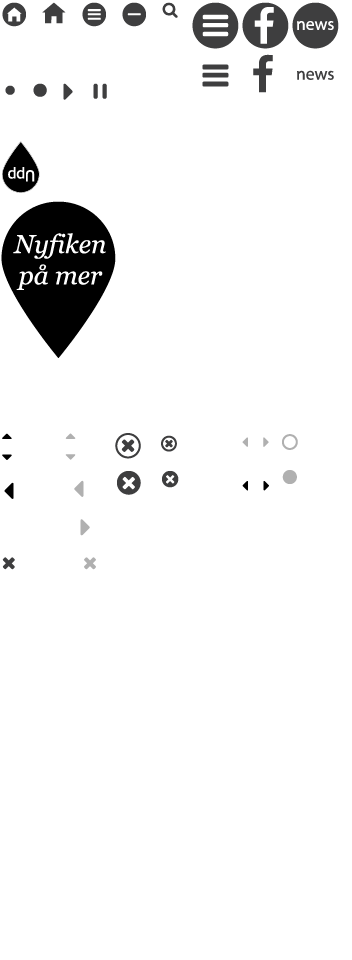
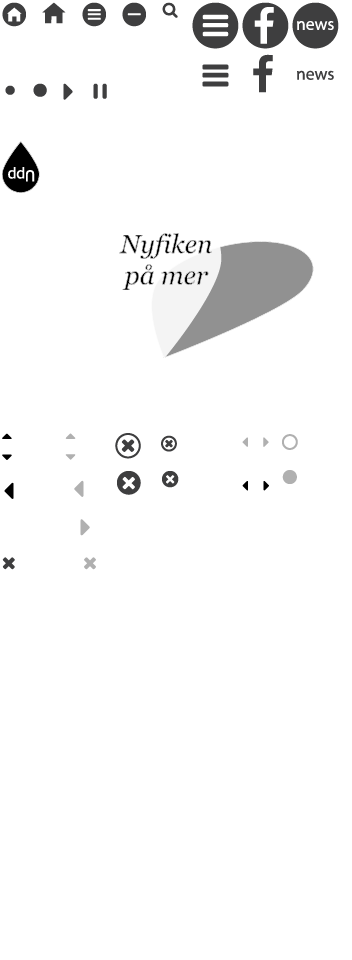
style fixes, firstpage teaser changed

Changed region(s): [[0.0, 0.1875, 0.9062, 0.375]]

diff --git a/css/style.css b/css/style.css
@@ -1016,7 +1016,7 @@ h1, .alpha, h1,
   line-height: 1.33333;
 }
 
-h2, .beta {
+h2, .beta, .main-menu-wrapper .menu-head {
   font-size: 24px;
   font-size: 1.5rem;
   line-height: 1;
@@ -1029,7 +1029,7 @@ h3, .gamma {
 }
 
 h4, .delta, .contacts-wrapper .contactlist .contact h2.title,
-.contacts-wrapper .contacts .contact h2.title, .main-menu-wrapper .menu-head, .module-wrapper.nyheter-module-wrapper .items .item .item-content h2 {
+.contacts-wrapper .contacts .contact h2.title, .module-wrapper.nyheter-module-wrapper .items .item .item-content h2 {
   font-size: 18px;
   font-size: 1.125rem;
   line-height: 1.33333;
@@ -5225,9 +5225,6 @@ article .block-wrapper .contacts-wrapper {
   -webkit-transform: rotate(180deg);
 }
 
-footer a {
-  border-bottom: 1px dotted white;
-}
 footer .footer-div .footer-container {
   padding-top: 24px;
   /* if less than 4 widgets */
@@ -5532,7 +5529,7 @@ article.page .slideshow-wrapper:after {
   }
 }
 .teaser-1 {
-  bottom: 1%;
+  bottom: 3%;
   left: 50%;
 }
 
@@ -5695,7 +5692,7 @@ article.page .slideshow-wrapper:after {
 }
 
 .teaser-1 {
-  width: 115px;
+  width: 312px;
   height: 157px;
   background-position: 0px -200px;
 }
@@ -6104,8 +6101,8 @@ article.page .slideshow-wrapper:after {
   margin-left: 24px;
 }
 .main-menu-wrapper .menu a {
-  padding: 2px;
-  margin: 2px;
+  padding: 3px;
+  margin: 3px;
   display: inline-block;
   border-radius: 4px;
 }

diff --git a/js/site.js b/js/site.js
@@ -423,6 +423,7 @@ jQuery(document).ready(function($) {
 	});*/
 
 	
+	
 	/* add + and expanding submenu in hovermenu */
 	if (false) // removed 
 		$('.main-menu-wrapper .menu a').each(function() {
@@ -445,6 +446,7 @@ jQuery(document).ready(function($) {
 	$(".up-icon").hide().click( function() {
 		$("body,html").softscroll(0, 800);
 	});
+	
 	
 	
 	/* teaser function on firstpage */

diff --git a/css/ui/_menu.scss b/css/ui/_menu.scss
@@ -17,7 +17,7 @@
 	@extend .nounderline;
 	padding: 24px 0;
 	.menu-head {
-		@extend .delta;
+		@extend .beta;
 		@extend .italic;
 	}
 	ul {
@@ -31,8 +31,8 @@
 	}
 	.menu {
 		a {
-			padding: 2px;
-			margin: 2px;
+			padding: 3px;
+			margin: 3px;
 			display: inline-block;
 			border-radius: $border-radius;
 		}

diff --git a/css/ui/_icons.scss b/css/ui/_icons.scss
@@ -80,7 +80,7 @@ $clip-sizes: 80 48 40 30 24 20 16 12;
 }
 .teaser-1 {
 	@extend .clip;
-	width: 115px;
+	width: 312px;
 	height: 157px;
 	background-position: 0px -200px;
 }

diff --git a/css/ui/_footer.scss b/css/ui/_footer.scss
@@ -46,9 +46,6 @@
 }
 footer {
 	@extend .green;
-	a {
-		border-bottom: 1px dotted white;
-	}
 	.footer-div {
 		@extend .max-width--center;
 		.footer-container {	

diff --git a/css/ui/_home.scss b/css/ui/_home.scss
@@ -1,5 +1,5 @@
 .teaser-1 {
-	bottom: 1%;
+	bottom: 3%;
 	left: 50%;
 }
 .teaser {
